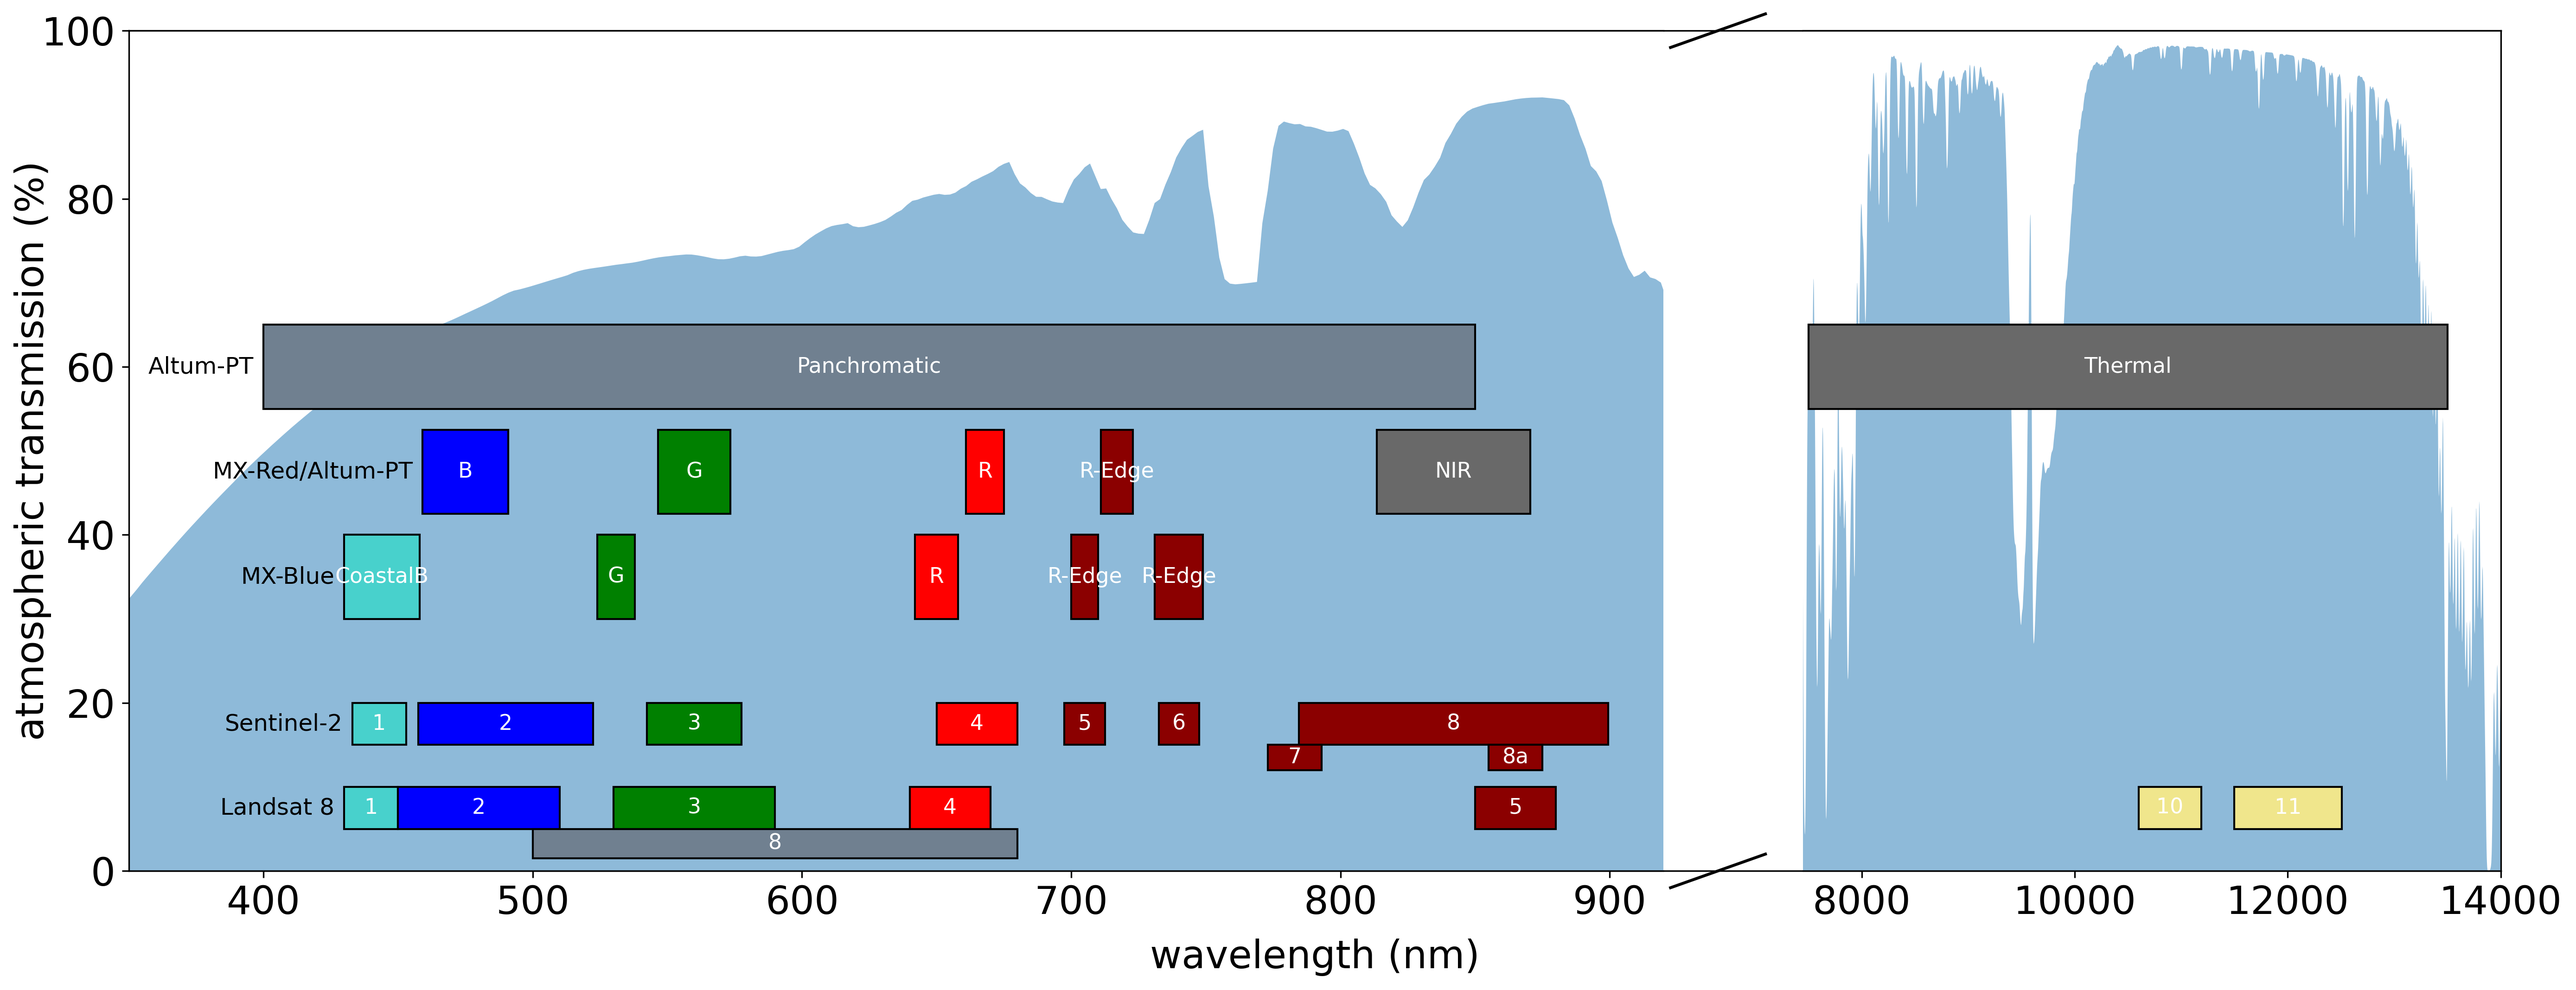
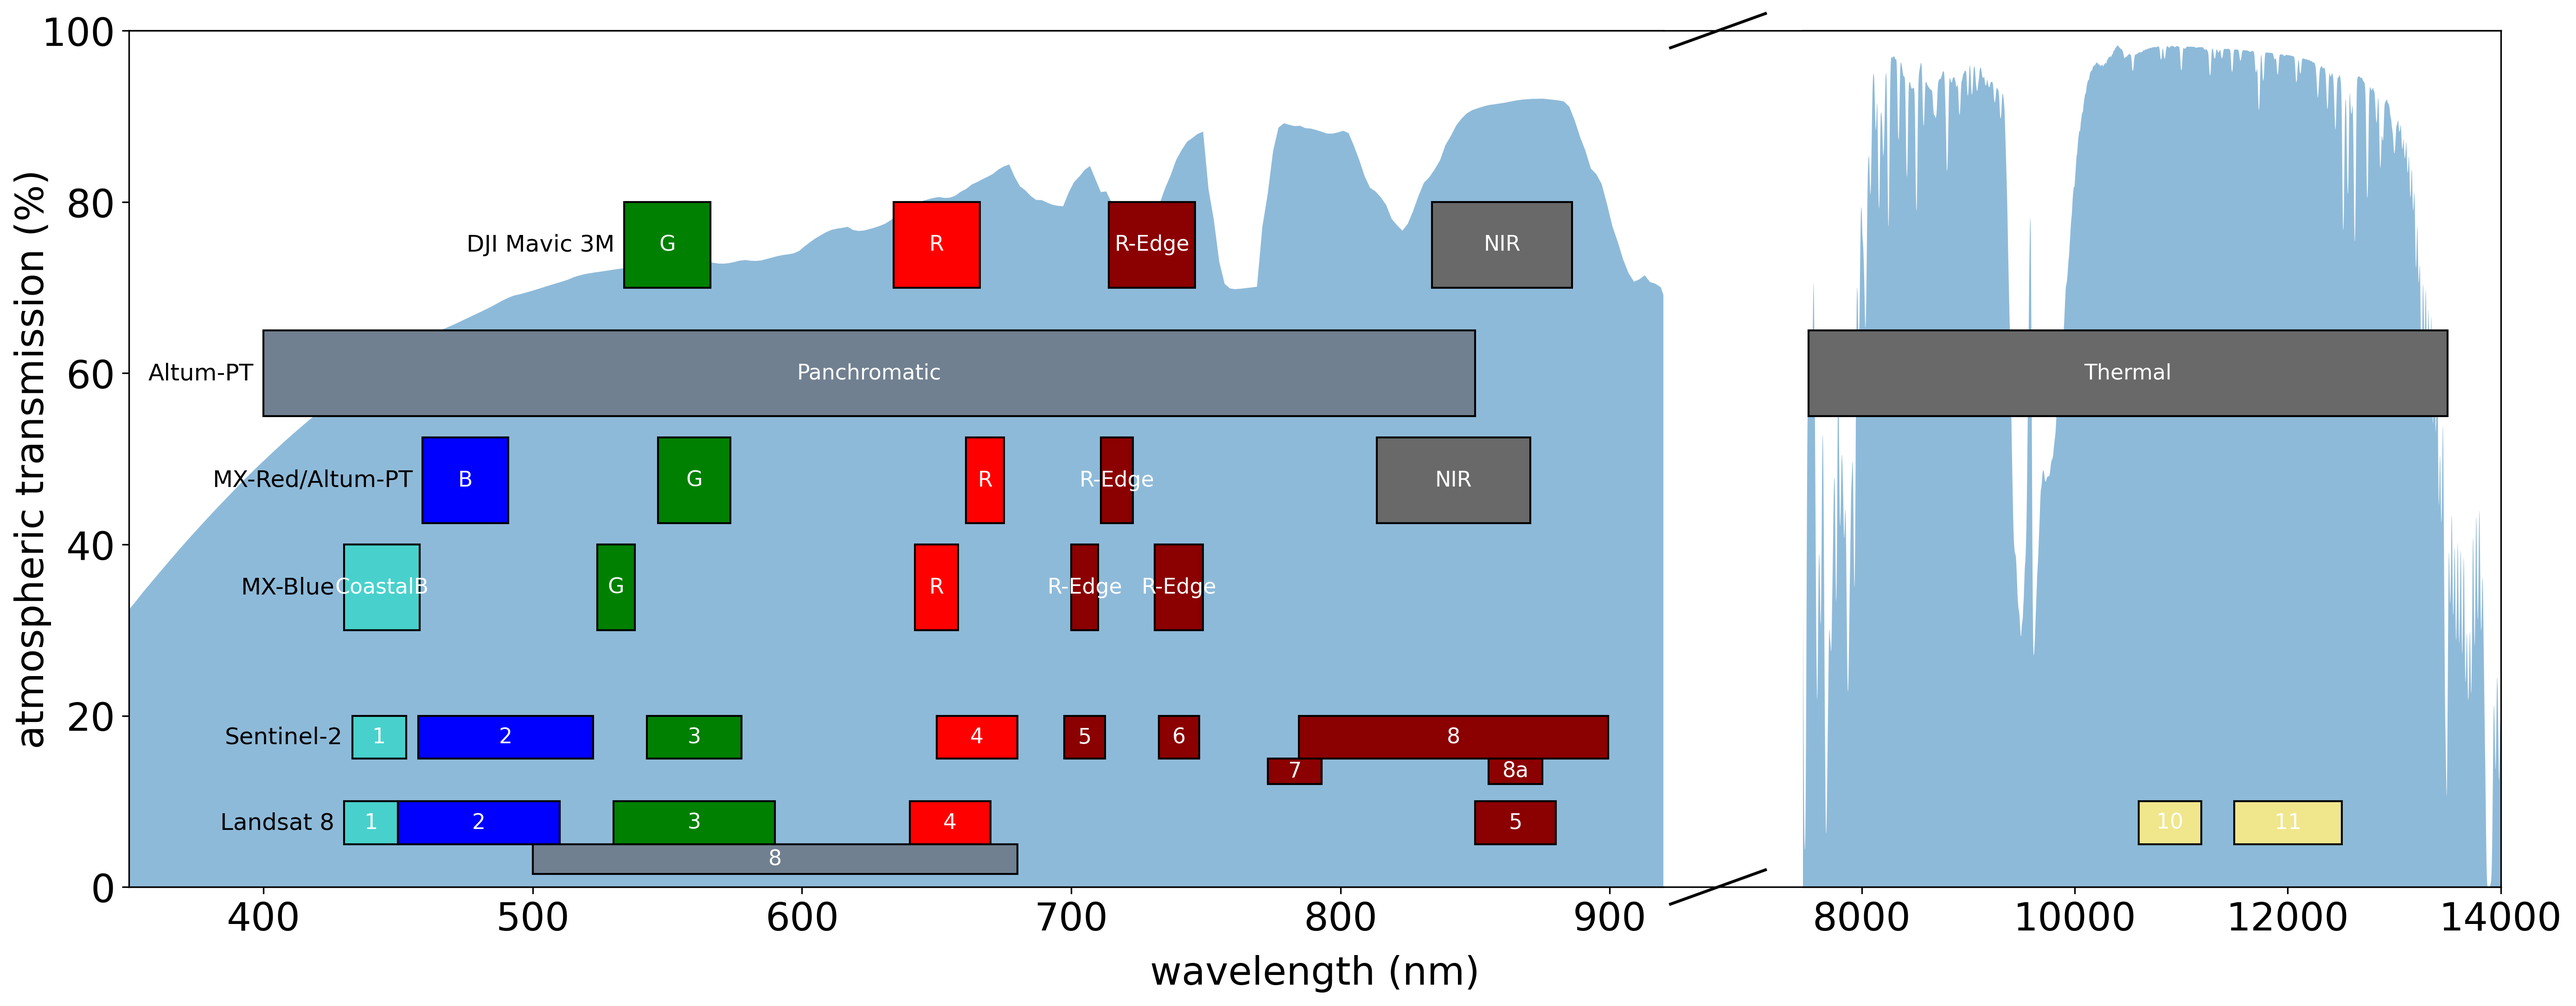
Adde Mavic 3M ato transmission_plot_MicaSense.py

diff --git a/scripts/transmission_plot_MicaSense.py b/scripts/transmission_plot_MicaSense.py
@@ -118,6 +118,12 @@ MX_Blue = {'name': 'MX-Blue',
                           ('R-Edge', 700, 710, 'darkred'),
                           ('R-Edge', 731, 749, 'darkred')]}  
 
+Mavic_3M = {'name': 'DJI Mavic 3M',
+               'bands':  [('G', 534, 566, 'g'),
+                          ('R', 634, 666, 'r'),
+                          ('R-Edge', 714, 746, 'darkred'),
+                          ('NIR', 834, 886, 'dimgray')]}  
+                          
 Altum_PT = {'name': 'Altum-PT',
                'bands':  [('Panchromatic', 400, 850, 'slategrey'),
                           ('Thermal', 7500, 13500, 'dimgray')]}  
@@ -163,6 +169,7 @@ plot_sensor(ax0, ax1, sentinel2_8a, 12, 3)
 plot_sensor(ax0, ax1, MX_Blue, 30, 10)
 plot_sensor(ax0, ax1, MX_Red, 42.5, 10)
 plot_sensor(ax0, ax1, Altum_PT, 55, 10)
+plot_sensor(ax0, ax1, Mavic_3M, 70, 10)
 
 fig.savefig(Path('figures', 'TransmissionMicasenseSensorBands.png'), bbox_inches='tight', dpi=300)
 
